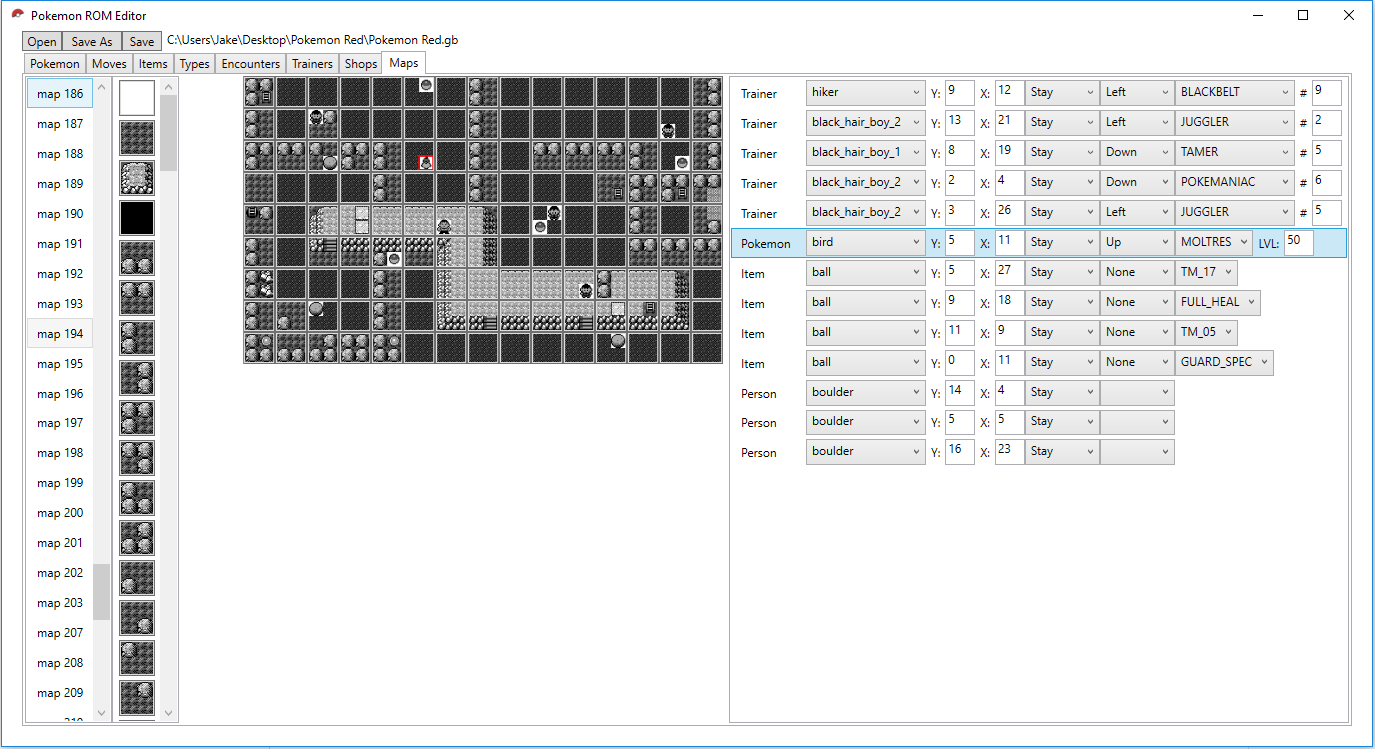
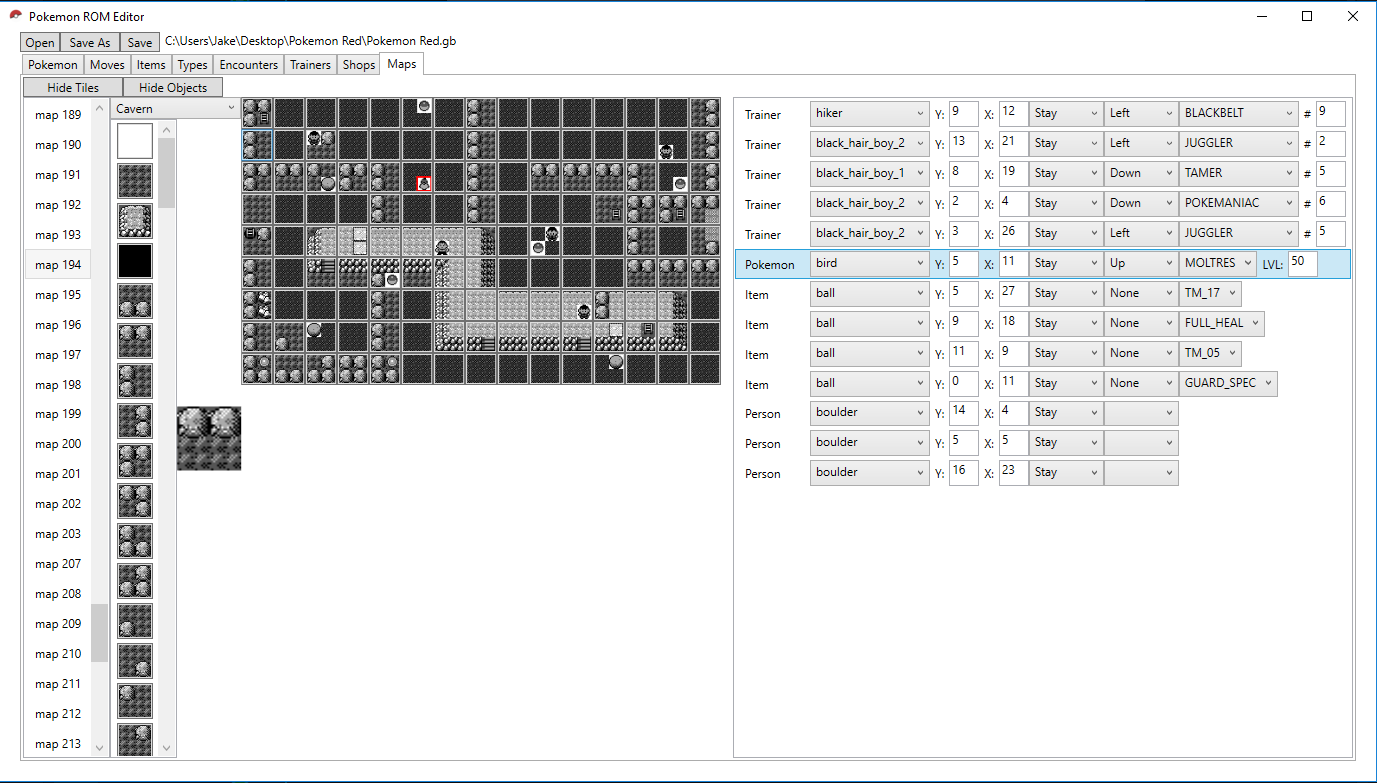
Fixed a bug and updated documentation

Changed region(s): [[0.0, 0.0, 1.0, 1.0], [0.9164, 0.0, 1.0, 0.0307]]

diff --git a/src/PokemonROMEditor/ViewModels/ROMEditorViewModel.cs b/src/PokemonROMEditor/ViewModels/ROMEditorViewModel.cs
@@ -450,10 +450,9 @@ namespace PokemonROMEditor.ViewModels
                         ob.SpriteChanged += UpdateMapSprites;
                     }
                     selectedMap.TileSetChanged += UpdateSelectedMapTileset;
+                    LoadSelectedMapTilesImages();
+                    LoadSelectedMapImages();
                 }
-                //LoadTileset();
-                LoadSelectedMapTilesImages();
-                LoadSelectedMapImages();
                 OnPropertyChanged();
                 SelectedTileID = 0;
                 OnPropertyChanged("SelectedTileImage");
@@ -1333,18 +1332,7 @@ namespace PokemonROMEditor.ViewModels
                 s.SpriteBitmap = createdBitmap;
                 sourceBitmap.Dispose();
             }
-        }
-
-        /*
-        private void LoadSpriteImages()
-        {
-            SpriteImages.Clear();
-            foreach(var s in Sprites)
-            {
-                SpriteImages.Add(Bitmap2BitmapSource(s.SpriteBitmap));
-            }
-        }
-        //*/
+        }        
 
         private void LoadSelectedMapTilesImages()
         {

diff --git a/MapsTab.md b/MapsTab.md
@@ -1,5 +1,6 @@
 This tab lets you edit the game's maps in the following ways:
 
+* Change the tileset
 * Change the background tiles
 * Change the location of each object
 * Change the sprite of each object (first dropdown box)
